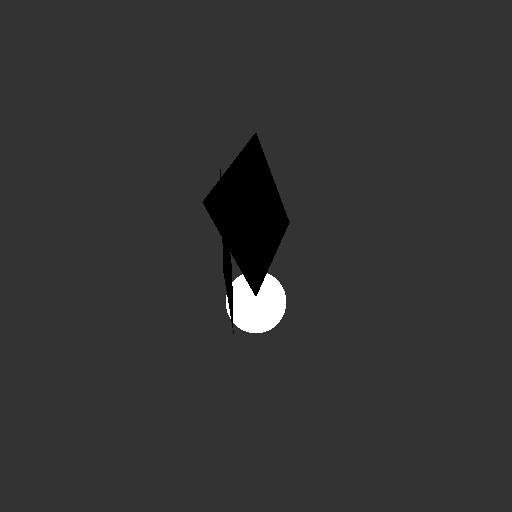
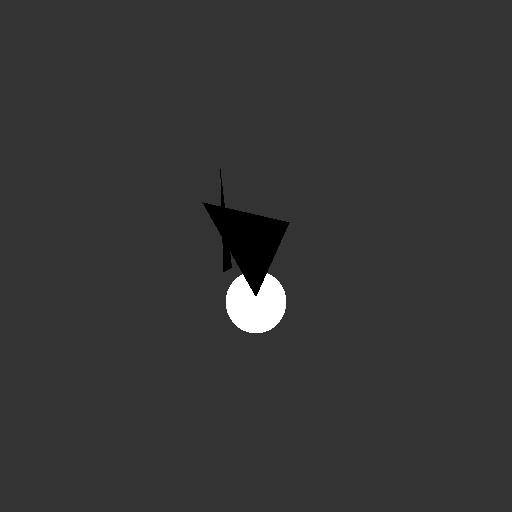
triangles almost working, except upside down.

Changed region(s): [[0.4062, 0.25, 0.5625, 0.4375], [0.4375, 0.5312, 0.4688, 0.625]]

diff --git a/src/main/java/edu/byu/cs455/scene/object/Triangle.java b/src/main/java/edu/byu/cs455/scene/object/Triangle.java
@@ -38,6 +38,16 @@ public class Triangle extends SceneObject
         return c;
     }
 
+    public Vector getEdge1()
+    {
+        return getA().subtract(getB());
+    }
+
+    public Vector getEdge2()
+    {
+        return getC().subtract(getB());
+    }
+
     @Override
     public Vector getIntersectionVector(Ray ray)
     {
@@ -61,7 +71,7 @@ public class Triangle extends SceneObject
 
     private double getPlaneDistance()
     {
-        return b.dotProduct(getPlaneNormal());
+        return getB().dotProduct(getPlaneNormal());
         //return d;
     }
 
@@ -73,12 +83,12 @@ public class Triangle extends SceneObject
 
     private boolean isIntersectionVectorInsideTriangle(Vector planeIntersectionVector)
     {
-        Vector u = a.subtract(b);
-        Vector v = c.subtract(b);
+        Vector u = getEdge1();
+        Vector v = getEdge2();
         double uu = u.dotProduct(u);
         double uv = u.dotProduct(v);
         double vv = v.dotProduct(v);
-        Vector w = planeIntersectionVector.subtract(b);
+        Vector w = planeIntersectionVector.subtract(getB());
         double wu = w.dotProduct(u);
         double wv = w.dotProduct(v);
         double denominator = (uv * uv) - (uu * vv);
@@ -90,7 +100,7 @@ public class Triangle extends SceneObject
             return false;
         }
         double t = ((uv * wu) - (uu * wv)) / denominator;
-        if (t < 0 || t > 1)
+        if (t < 0 || (s + t) > 1)
         {
             return false;
         }
@@ -119,9 +129,9 @@ public class Triangle extends SceneObject
     private List<Vector> getTriangleVertices()
     {
         List<Vector> vectors = new ArrayList<>();
-        vectors.add(a);
-        vectors.add(b);
-        vectors.add(c);
+        vectors.add(getA());
+        vectors.add(getB());
+        vectors.add(getC());
         return vectors;
     }
 
@@ -165,7 +175,7 @@ public class Triangle extends SceneObject
             return null;
         }
         //double vo = -(getPlaneNormal().dotProduct(ray.getOrigin()) + getPlaneDistance());
-        double distanceNumerator = -(getPlaneNormal().dotProduct(ray.getOrigin().subtract(b)));
+        double distanceNumerator = -(getPlaneNormal().dotProduct(ray.getOrigin().subtract(getB())));
         if (distanceNumerator == 0)
         {
             return null;
@@ -193,8 +203,8 @@ public class Triangle extends SceneObject
 
     private Vector getPlaneNormal()
     {
-        Vector v1 = a.subtract(b);
-        Vector v2 = c.subtract(b);
+        Vector v1 = getEdge1();
+        Vector v2 = getEdge2();
         return v1.crossProduct(v2).normalize();
     }
 
@@ -232,9 +242,9 @@ public class Triangle extends SceneObject
     public String toString()
     {
         return "Triangle{" +
-                "a=" + a +
-                ", b=" + b +
-                ", c=" + c +
+                "a=" + getA() +
+                ", b=" + getB() +
+                ", c=" + getC() +
                 '}';
     }
 }

diff --git a/src/main/java/edu/byu/cs455/scene/Scene.java b/src/main/java/edu/byu/cs455/scene/Scene.java
@@ -169,7 +169,8 @@ public class Scene
     private Ray getShadowRay(Vector pointToCheck)
     {
         double epsilon = 0.00001;
-        Vector direction = getRayDirection(getLight().getDirectionToLight(), pointToCheck);
+        Vector direction = getRayDirection(getDirectionToLight(), pointToCheck);
+        //Vector direction = getDirectionToLight();
         Ray ray = new Ray(pointToCheck, direction);
         Vector newOrigin = ray.getLocation(epsilon).normalize();
         ray = new Ray(newOrigin, direction);

diff --git a/src/main/java/edu/byu/cs455/scene/material/Diffuse.java b/src/main/java/edu/byu/cs455/scene/material/Diffuse.java
@@ -44,7 +44,7 @@ public class Diffuse extends Material
         Vector reflectionVector = getReflectionVector(normal, directionToLight)
                 .normalize(); //r
 
-        //double visibilityTerm = isInShadow ? 1 : 0;
+//        double visibilityTerm = isInShadow ? 1 : 0;
         double visibilityTerm = 1;
         Vector ambientTerm = getAmbientTerm(diffuseReflectanceColor,
                 ambientColor);
